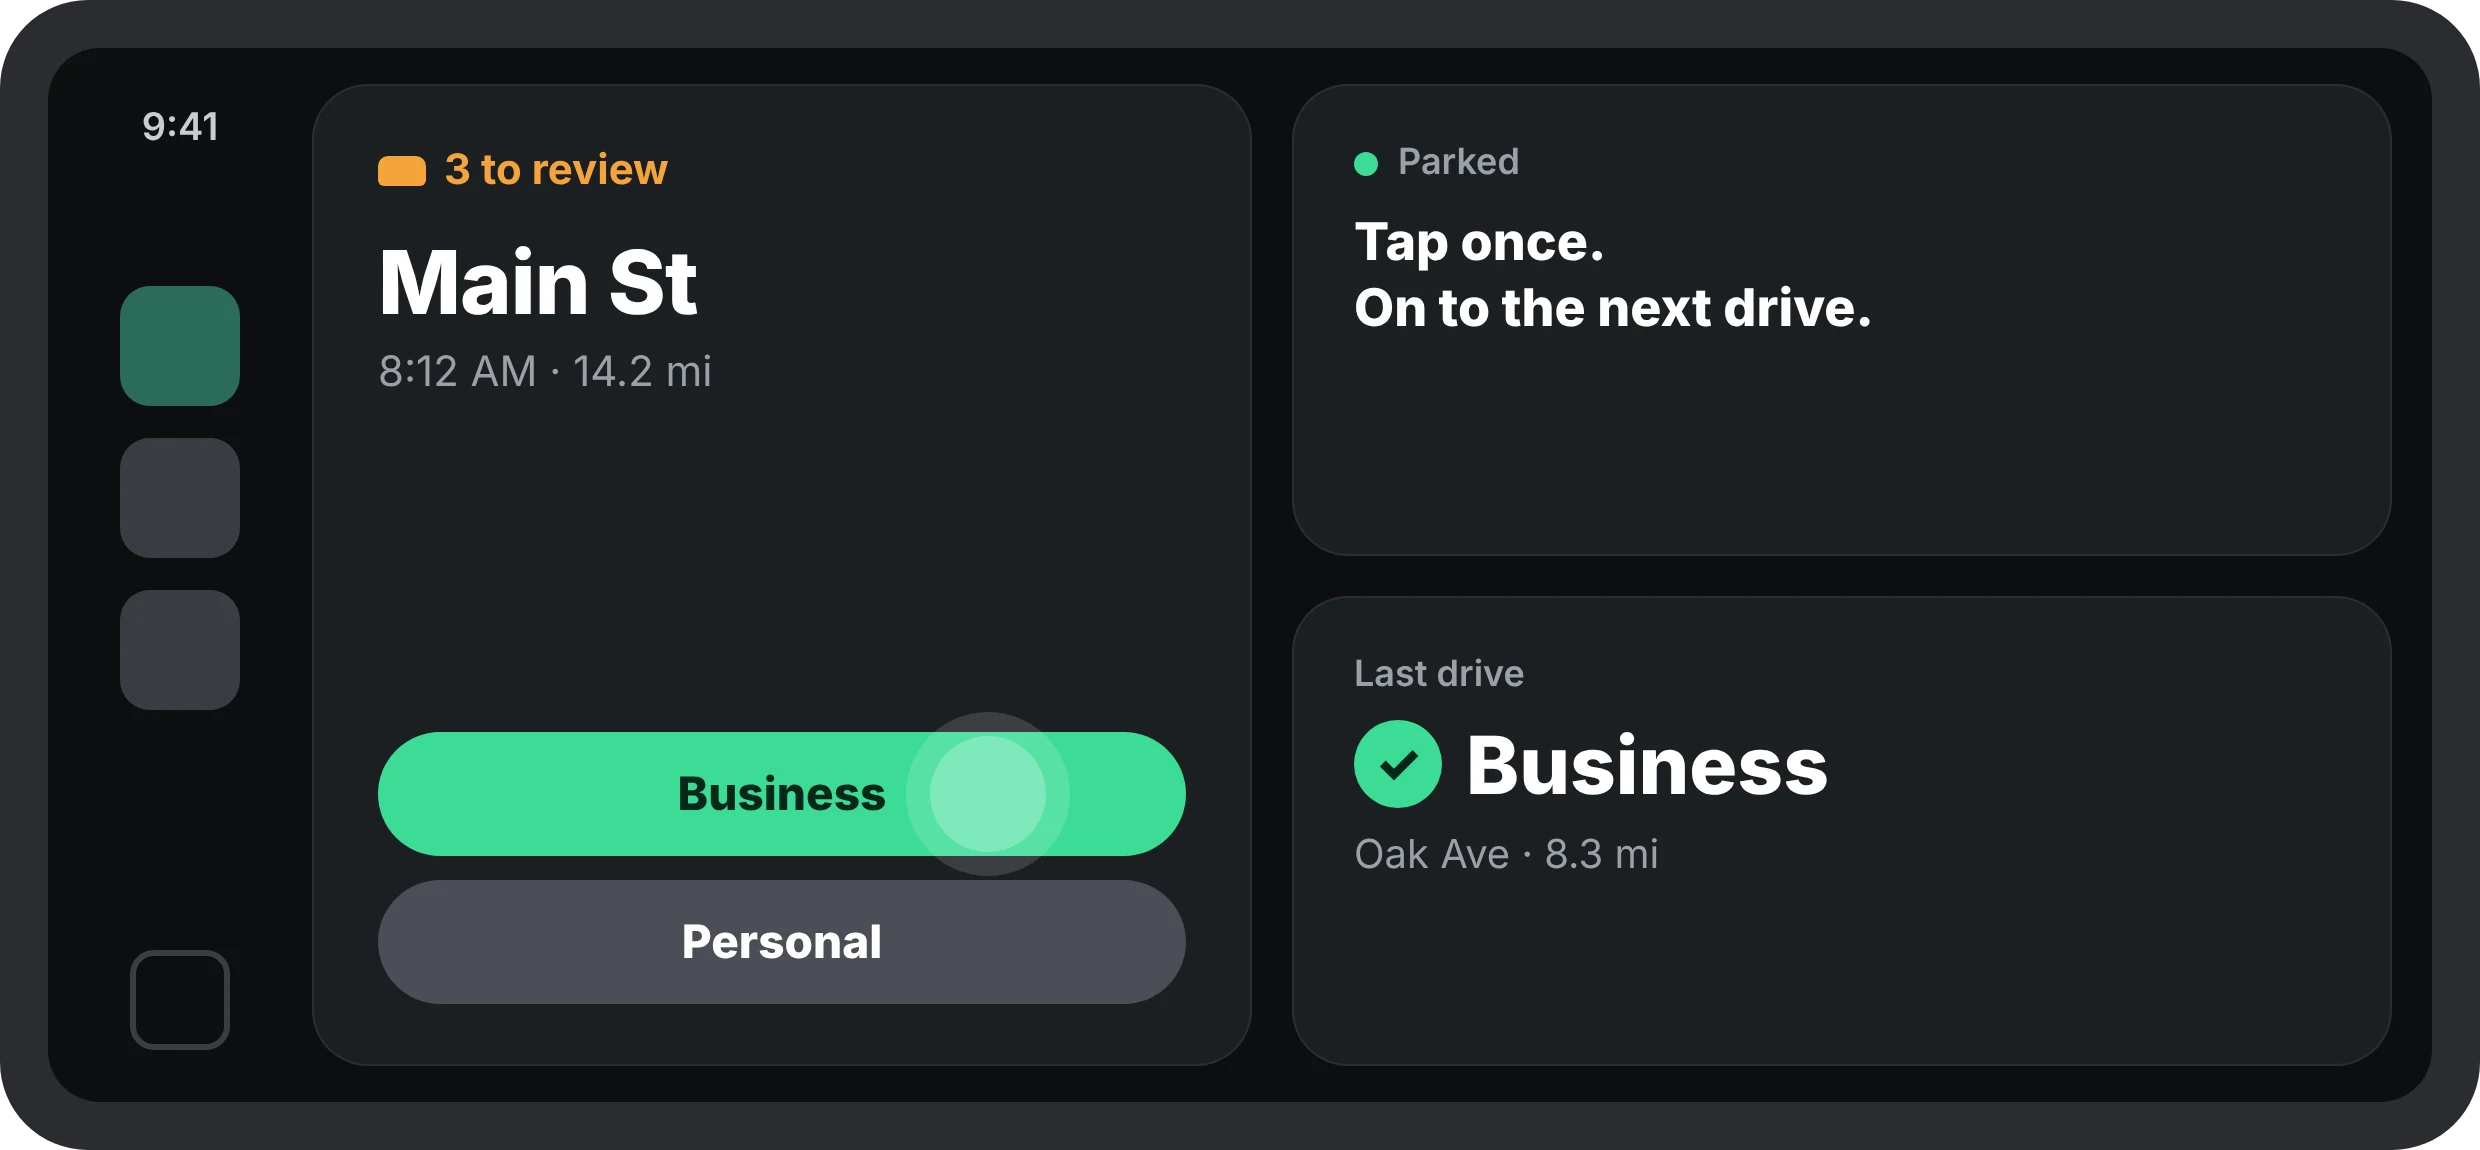
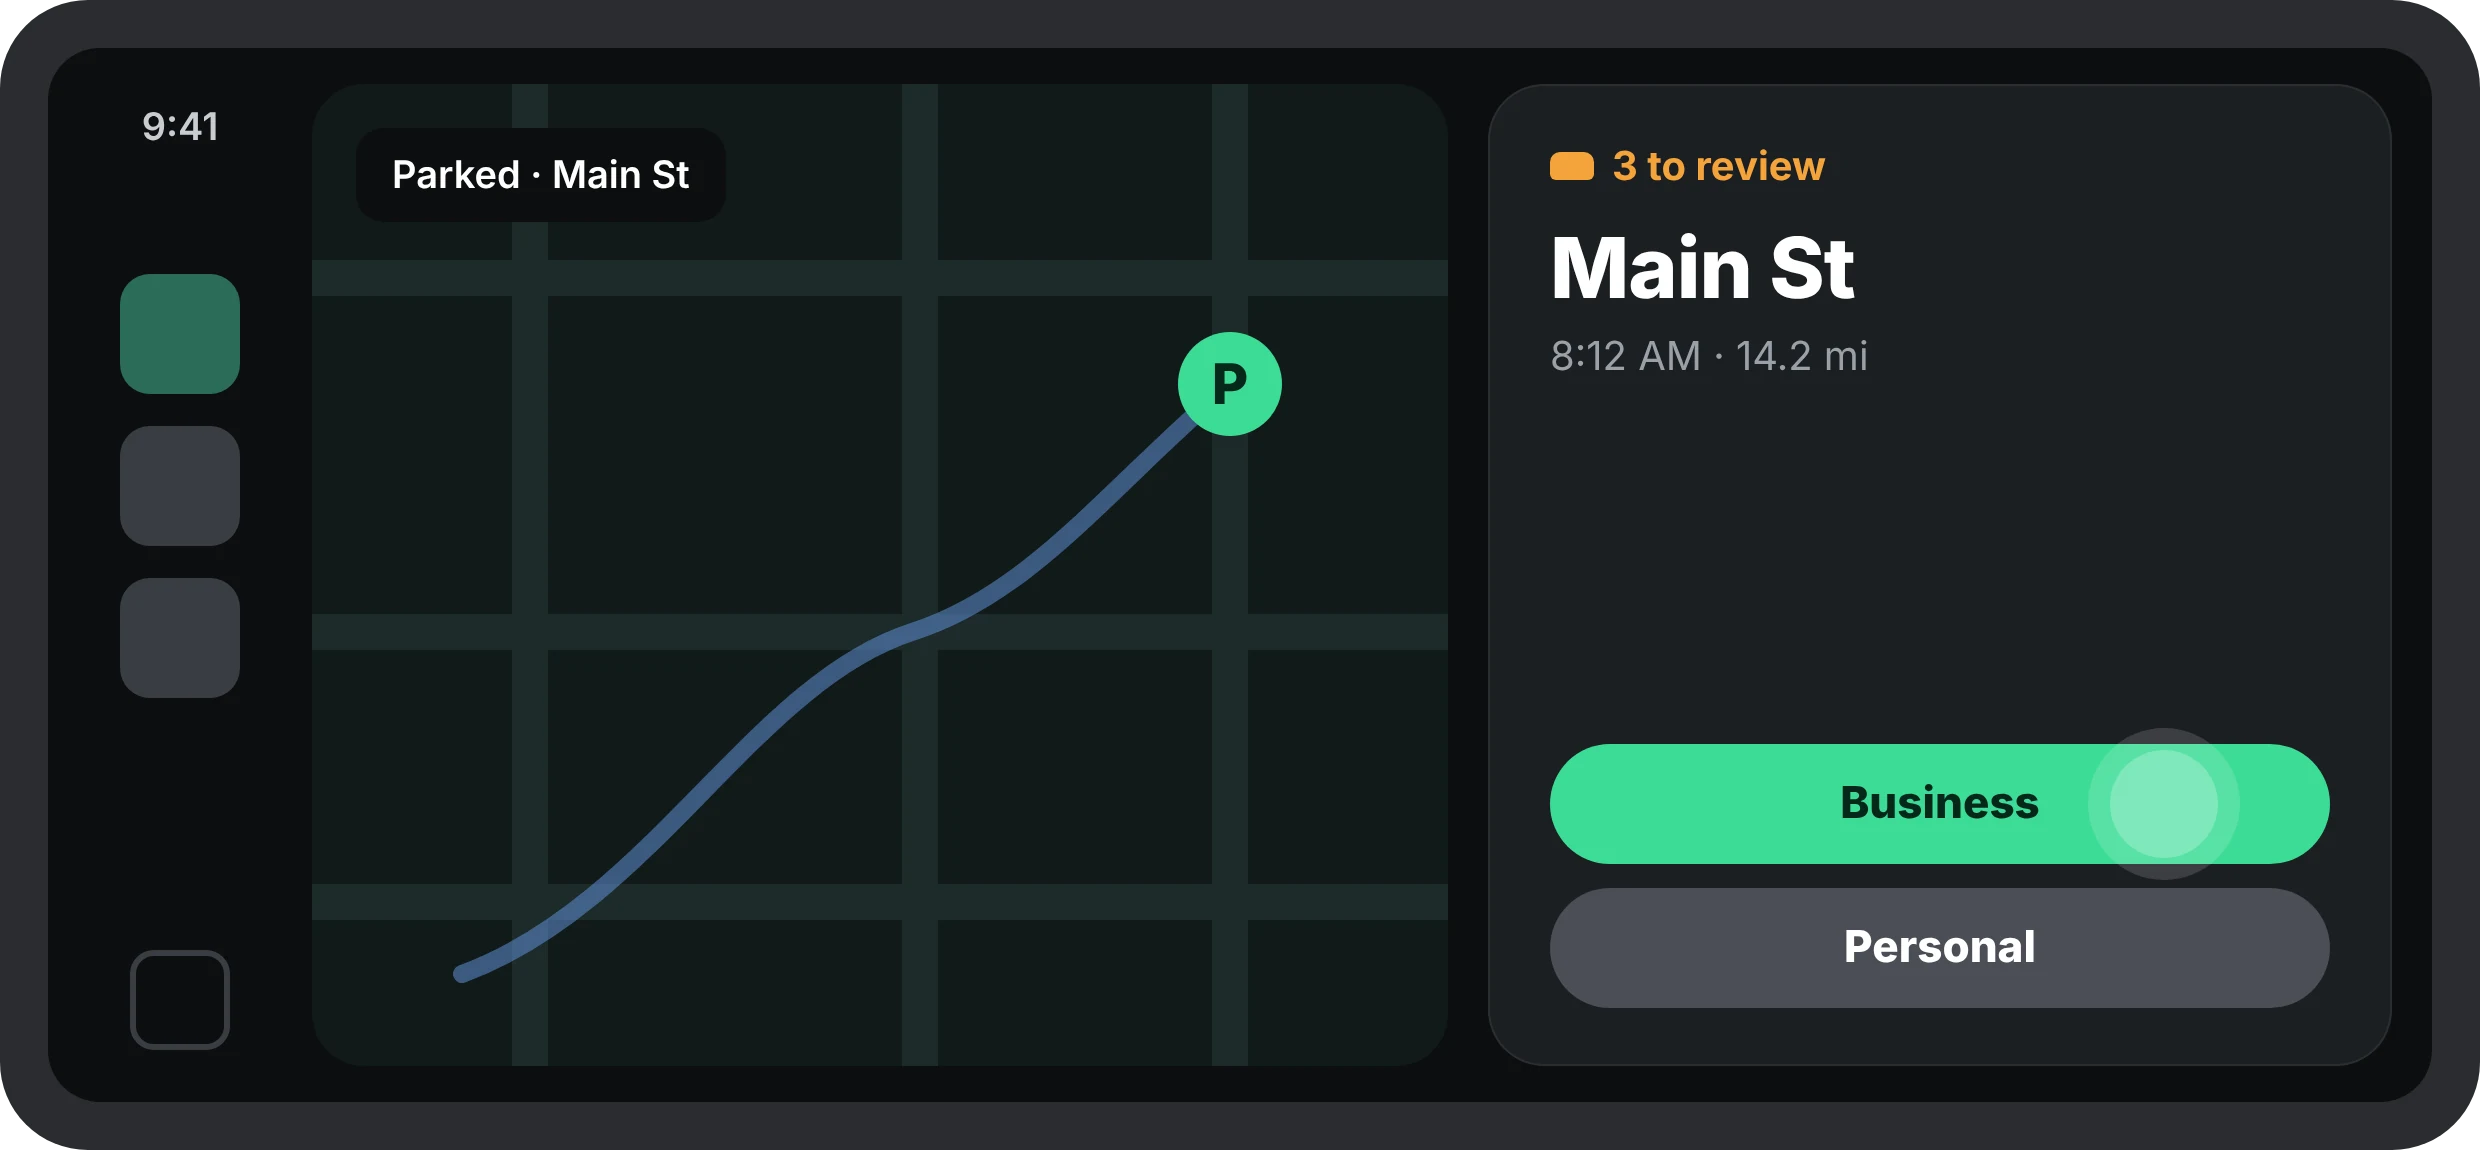
MileGuard: parked CarPlay picture with map

diff --git a/mileguard.html b/mileguard.html
@@ -348,7 +348,7 @@ footer{border-top:1px solid var(--line);padding:2.2rem 0}
     </div>
     <div class="car-shot">
       <img src="assets/mileguard/mg-carplay.webp" alt="Illustration of a car screen showing a MileGuard drive in progress and this month's totals">
-      <img src="assets/mileguard/mg-carplay-parked.webp" alt="Illustration of the MileGuard widget on a car screen after parking, with Business and Personal buttons for the last drive" loading="lazy">
+      <img src="assets/mileguard/mg-carplay-parked.webp" alt="Illustration of a car screen after parking: the map shows where you parked, and the MileGuard widget has Business and Personal buttons for that drive" loading="lazy">
       <small>Illustrations with sample data. Driving, then parked. Layout varies by car.</small>
     </div>
   </div>
